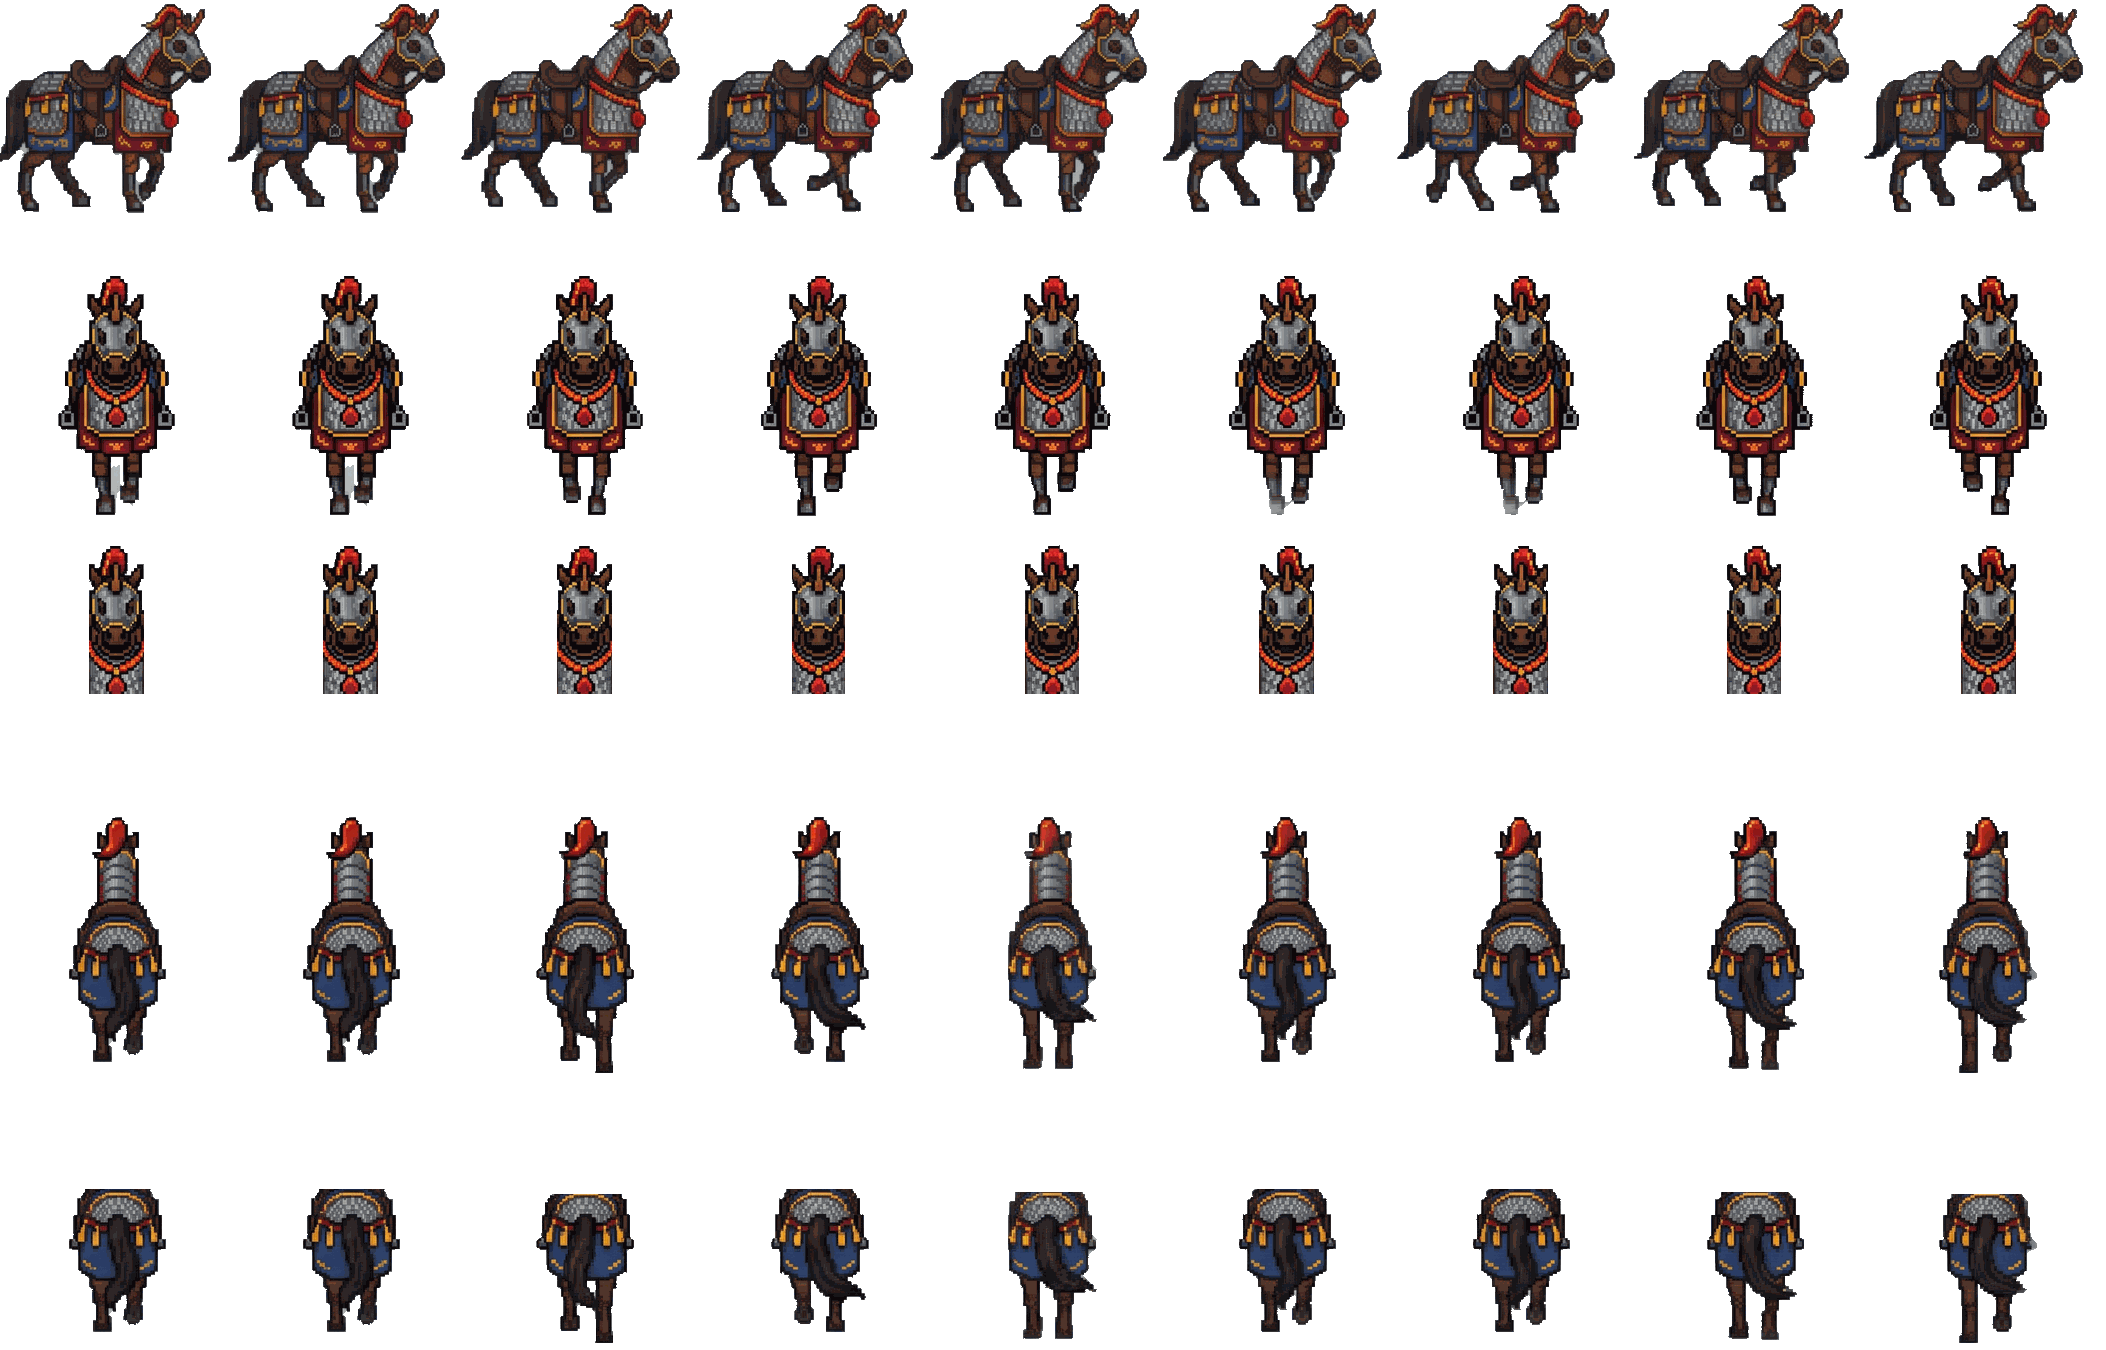
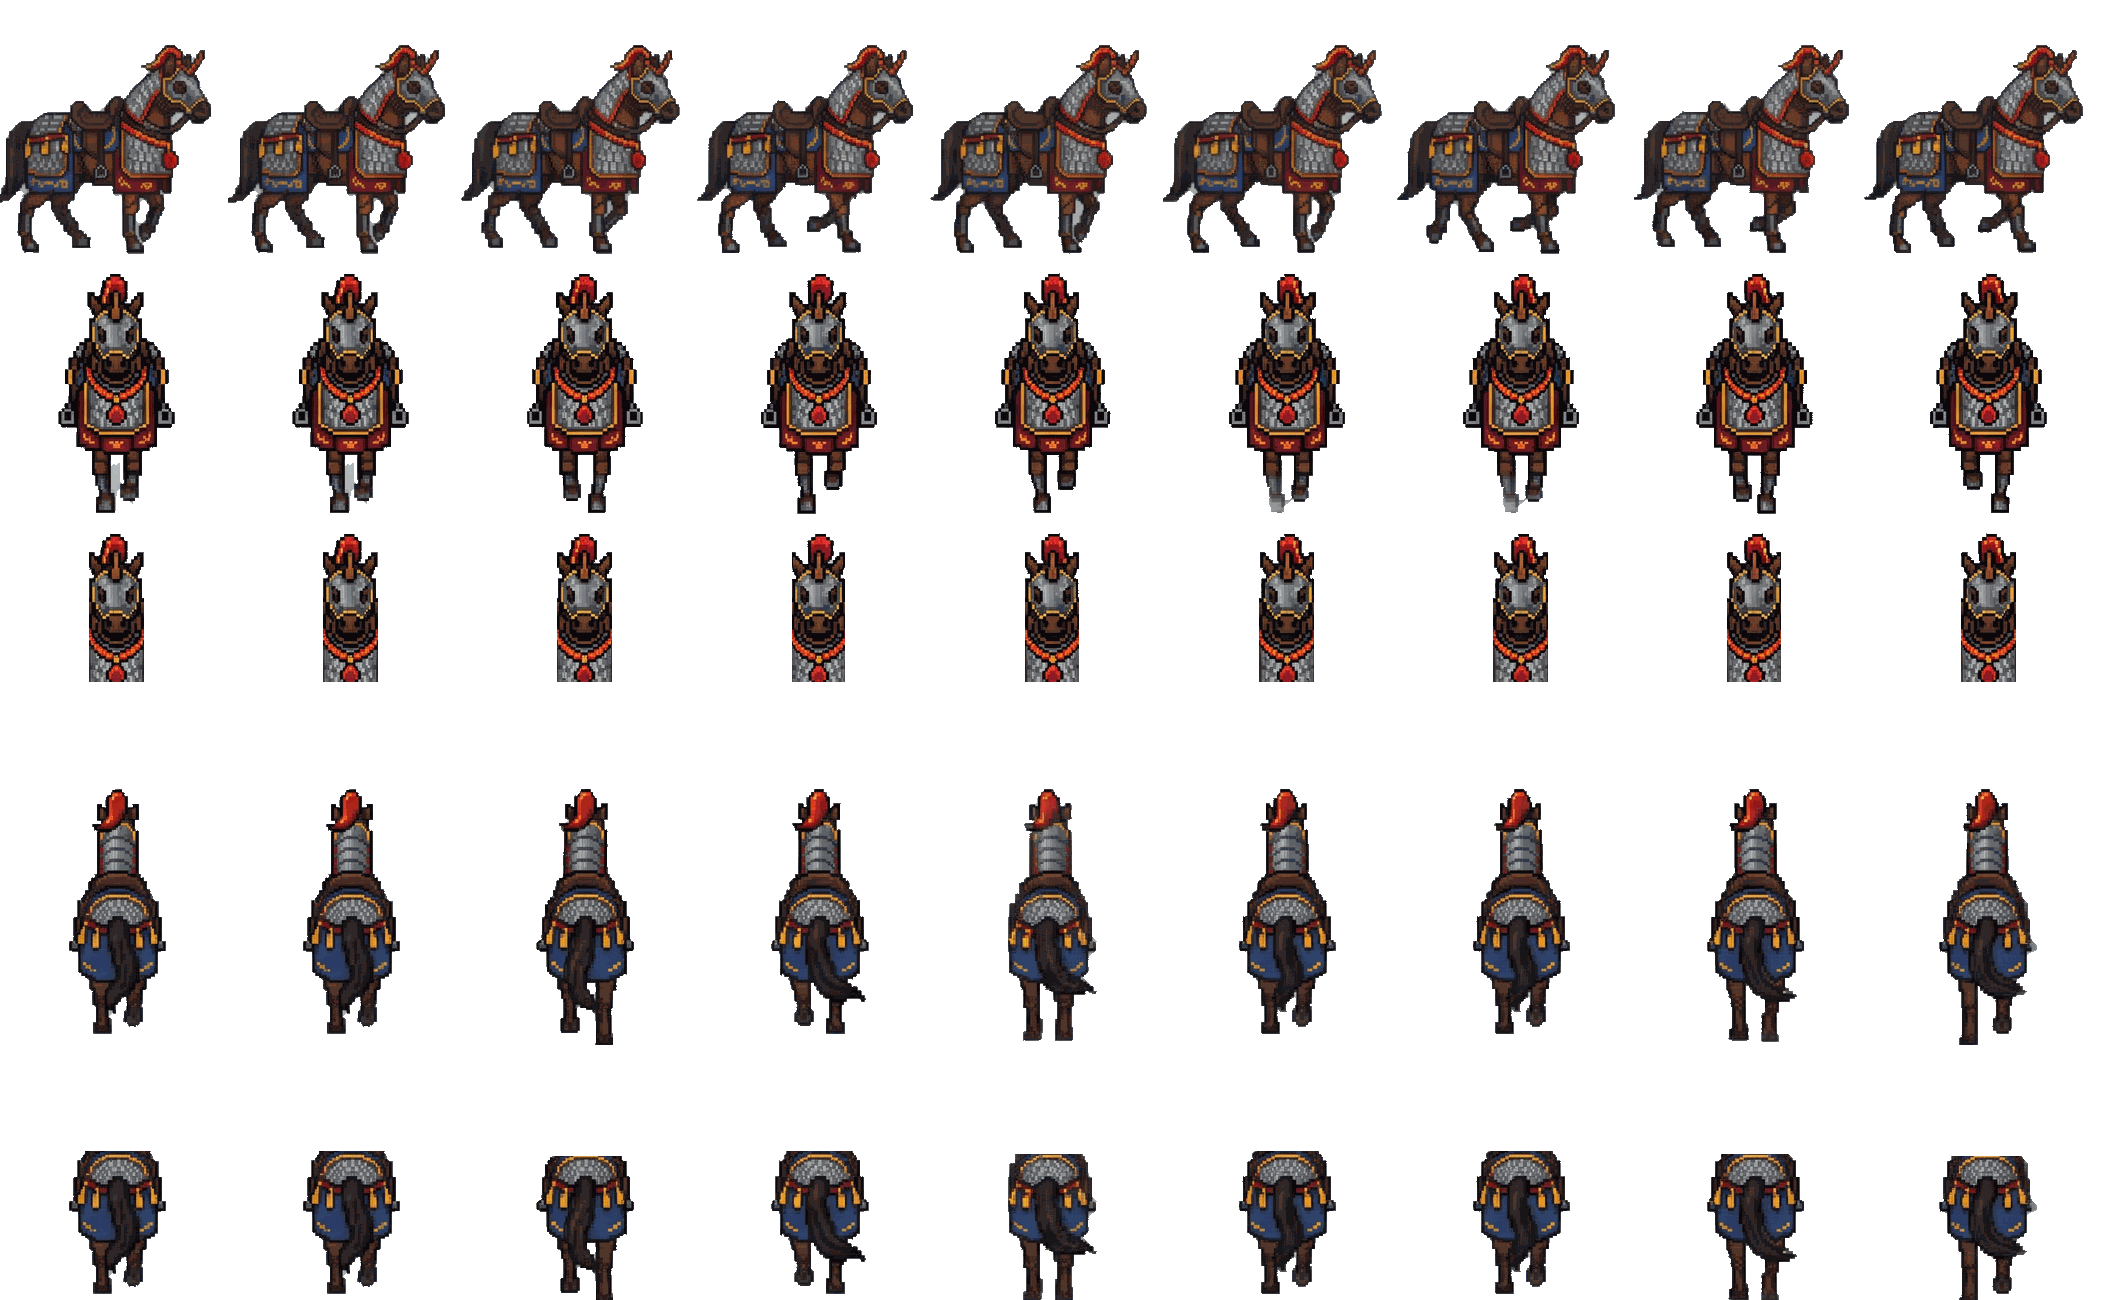
Hac Ma touches the ground in every direction; titles no longer cover names
Each view row is shifted to its own ground line (the side view was
floating ~25 px). Title frames are drawn 7 px higher above the name.

Claude-Session: https://claude.ai/code/session_01AqWtbjMjwaw5KPYKGcCy7Z

diff --git a/server/data/changelog.js b/server/data/changelog.js
@@ -4,6 +4,7 @@ const CHANGELOG = [
   {
     date: '02/11/2026',
     items: [
+      '🔧 Sửa Hắc Mã trông như đang bay (móng ngựa giờ chạm đất ở cả 4 hướng). Khung danh hiệu dời lên cao hơn, không còn che tên nhân vật.',
       '🐴 Hắc Mã (ngựa ô truy chiến giáp) có hình 4 hướng mới vẽ tay: mặt trước, sau lưng và nhìn ngang với dáng chạy 8 nhịp, giáp xích, chùm lông đỏ trên mũ.',
       '📦 HÒM ĐỒ: khi túi đầy, phần thưởng phó bản, sự kiện, boss, áp tiêu và quà gửi lúc offline không còn rơi xuống đất hay bị mất nữa mà được giữ trong Hòm Đồ. Mở Túi đồ → bấm "Nhận" khi đã dọn chỗ.',
       '💰 Giảm mạnh giá bán trang bị cho NPC, tính theo độ hiếm và cấp đồ: thường 15–35, Hiếm 50–110, VIP (tím) 180–420, Truyền Kỳ 730–1.680 lượng (+20% mỗi cấp cường hoá).',

diff --git a/public/js/overhead.js b/public/js/overhead.js
@@ -420,9 +420,10 @@
       return top - 17;
     }
     // khung + hiệu ứng theo từng danh hiệu (public/js/titlefx.js); bậc cao có hiệu ứng nhô lên trên nên đẩy tên bang cao hơn
-    TitleFX.draw(ctx, t, x, top - 23, performance.now(), !!o.lite);
-    let yTop = top - 30;
-    if (o.guild) { const gy = t.tier >= 3 ? top - 42 : top - 37; outlined(ctx, '«' + o.guild + '»', x, gy, 10, '#7fb8ff', '#000', 600); yTop = gy - 7; }
+    // khung danh hiệu (cả viền kép, cánh) đặt cao hơn tên để không đè lên chữ tên
+    TitleFX.draw(ctx, t, x, top - 30, performance.now(), !!o.lite);
+    let yTop = top - 37;
+    if (o.guild) { const gy = t.tier >= 3 ? top - 49 : top - 44; outlined(ctx, '«' + o.guild + '»', x, gy, 10, '#7fb8ff', '#000', 600); yTop = gy - 7; }
     return yTop;
   }
   // sát khí: khói đen quanh người

diff --git a/tools/mount_art/hacma.py b/tools/mount_art/hacma.py
@@ -37,7 +37,12 @@ cols = [(side[0], front[0], back[0])] + [(side[k], front[fb_idx[k]], back[fb_idx
 NT = len(cols)
 allf = [f for c in cols for f in c]
 CW = max(im.width for im, _ in allf) + 2 * PAD
-base = max(o + im.height for im, o in allf)                  # đáy chung (chân chạm đất)
+# mỗi hướng có đường đáy riêng (ảnh gốc mỗi hàng cao khác nhau): dời hàng cho móng chạm cùng một đường đất
+def gnd(fr): return max(o + im.height for im, o in fr)
+GS, GF = gnd(side), gnd(front)
+GB = min(o + im.height for im, o in back)   # sau lưng: vài khung chân sau bước về phía người nhìn thò thấp hơn – lấy khung đứng làm mặt đất
+base = max(GS, GF, GB) + 2
+DS, DF, DB = base - GS, base - GF, base - GB
 CH = base + PAD
 sheet = Image.new('RGBA', (CW * NT, CH * 5))
 seats = {'side': [], 'down': [], 'up': []}
@@ -53,7 +58,7 @@ SIDE_SEAT_FX, SIDE_SEAT_DY = 0.43, 16      # yên ngựa: 43% bề ngang (tính 
 for ci, ((si, so), (fi, fo), (bi, bo)) in enumerate(cols):
     x0 = ci * CW
     # ngang: căn theo thân (nửa trên), chân chạm đáy chung
-    cx = centre_x(si); px = round(CW / 2 - cx); py = so
+    cx = centre_x(si); px = round(CW / 2 - cx); py = so + DS
     sheet.alpha_composite(si, (x0 + px, py))
     sx = SIDE_SEAT_FX * si.width
     seats['side'].append([round(px + sx, 1), round(py + top_at(si, sx) + SIDE_SEAT_DY, 1)])
@@ -62,6 +67,7 @@ for ci, ((si, so), (fi, fo), (bi, bo)) in enumerate(cols):
     m = np.zeros((h, w), bool); c0 = int(w * 0.27); c1 = int(w * 0.73); m[:int(h * 0.62), c0:c1] = True
     over = fa.copy(); over[~m] = 0
     pxf = round(CW / 2 - w / 2)
+    fo += DF
     sheet.alpha_composite(fi, (x0 + pxf, CH + fo))
     sheet.alpha_composite(Image.fromarray(over, 'RGBA'), (x0 + pxf, 2 * CH + fo))
     ftop = np.nonzero((fa[..., 3] > 0).any(1))[0][0]
@@ -70,6 +76,7 @@ for ci, ((si, so), (fi, fo), (bi, bo)) in enumerate(cols):
     ba = np.asarray(bi).copy(); h2, w2 = ba.shape[:2]
     cut = int(h2 * 0.42); over2 = ba.copy(); over2[:cut] = 0
     pxb = round(CW / 2 - w2 / 2)
+    bo += DB
     sheet.alpha_composite(bi, (x0 + pxb, 3 * CH + bo))
     sheet.alpha_composite(Image.fromarray(over2, 'RGBA'), (x0 + pxb, 4 * CH + bo))
     btop = np.nonzero((ba[..., 3] > 0).any(1))[0][0]
@@ -77,7 +84,7 @@ for ci, ((si, so), (fi, fo), (bi, bo)) in enumerate(cols):
 
 sheet.quantize(colors=255, method=Image.FASTOCTREE, dither=Image.NONE).save(OUT + 'mounts/hac_ma.png', optimize=True)   # 255 màu: 1,2MB -> ~0,3MB
 meta = json.load(open(OUT + 'mounts.json'))
-meta['per']['hac_ma'] = {'cell': [CW, CH], 'foot': [CW / 2, int(base) - 1], 'footFB': [CW / 2, int(base) - 1],
+meta['per']['hac_ma'] = {'cell': [CW, CH], 'foot': [CW / 2, int(base) - 3], 'footFB': [CW / 2, int(base) - 3],
                          'frames': {'idle': [0, 1], 'run': [1, NR]}, 'rows': {'side': [0], 'down': [1, 2], 'up': [3, 4]},
                          'scale': 0.5, 'runMs': 95, 'idleMs': 700}
 meta['seats']['hac_ma'] = seats
